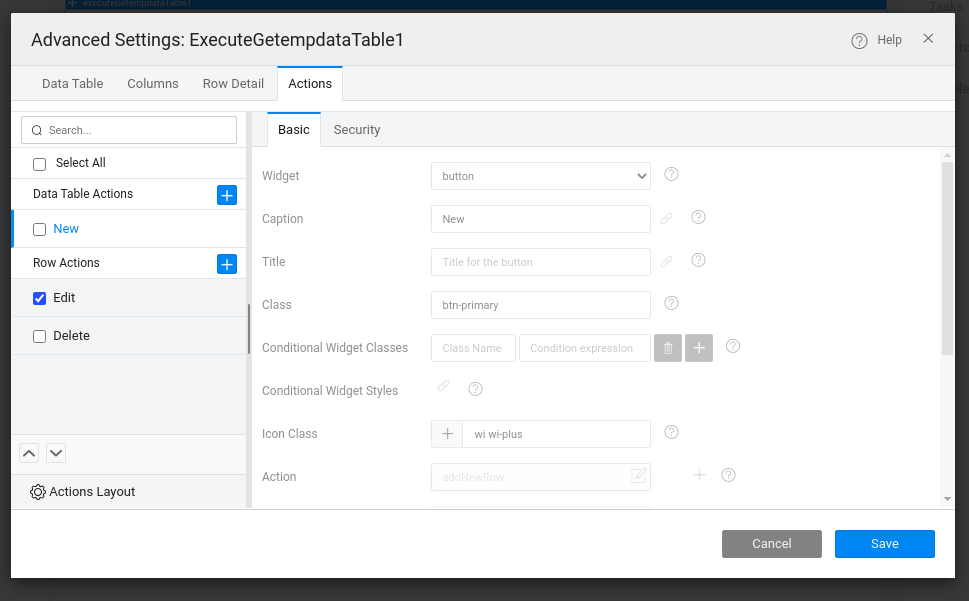
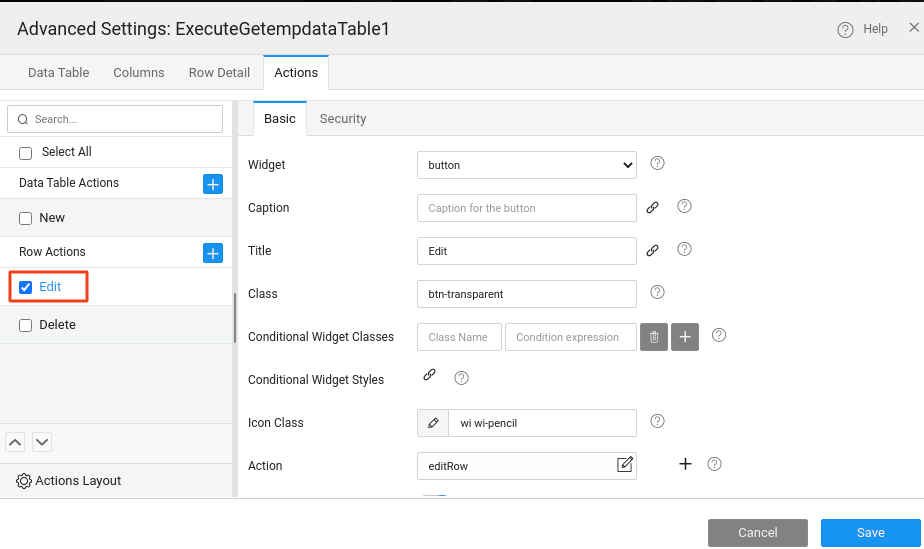
Modified images and Siderbar label name

diff --git a/learn/how-tos/edit-datatable-bound-to-queryapi.md b/learn/how-tos/edit-datatable-bound-to-queryapi.md
@@ -1,7 +1,7 @@
 ---
 title: "Configuring edit functionality for the datatable that is bound to Query API"
 id: ""
-sidebar_label: "Setting Blob Filename"
+sidebar_label: "Edit functionality for the datatable that is bound to Query API"
 ---
 ---
 
